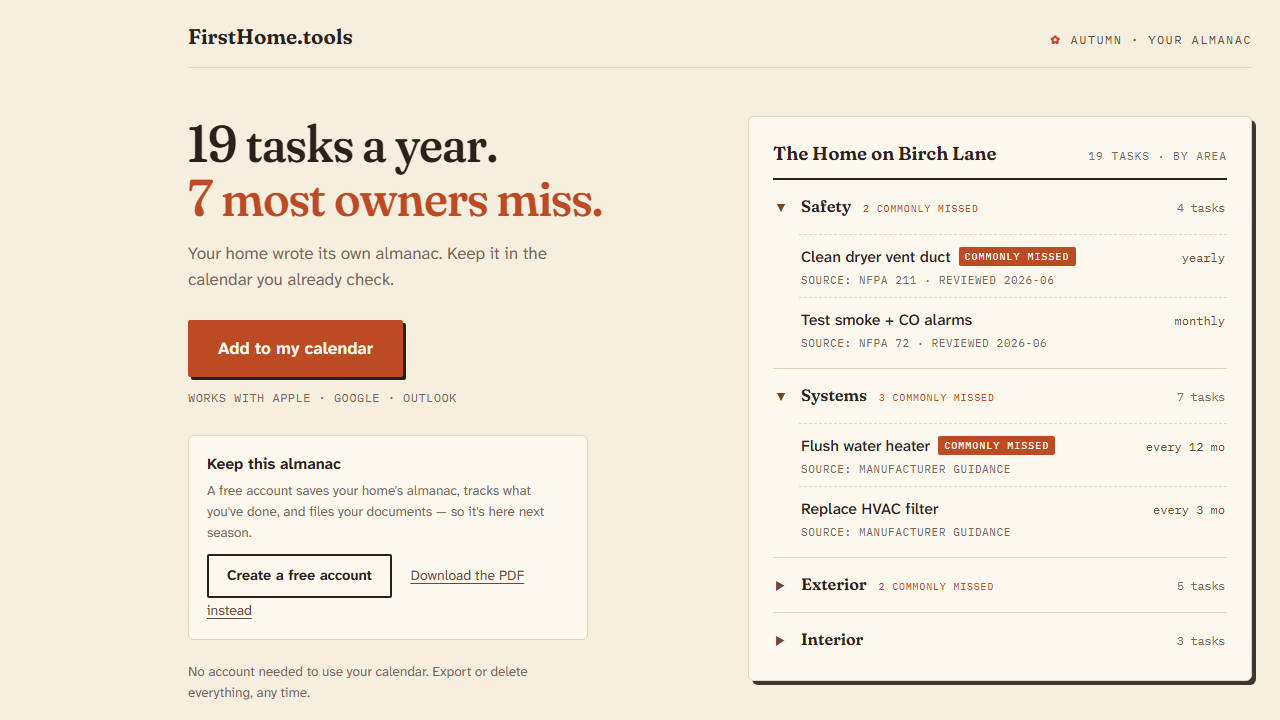
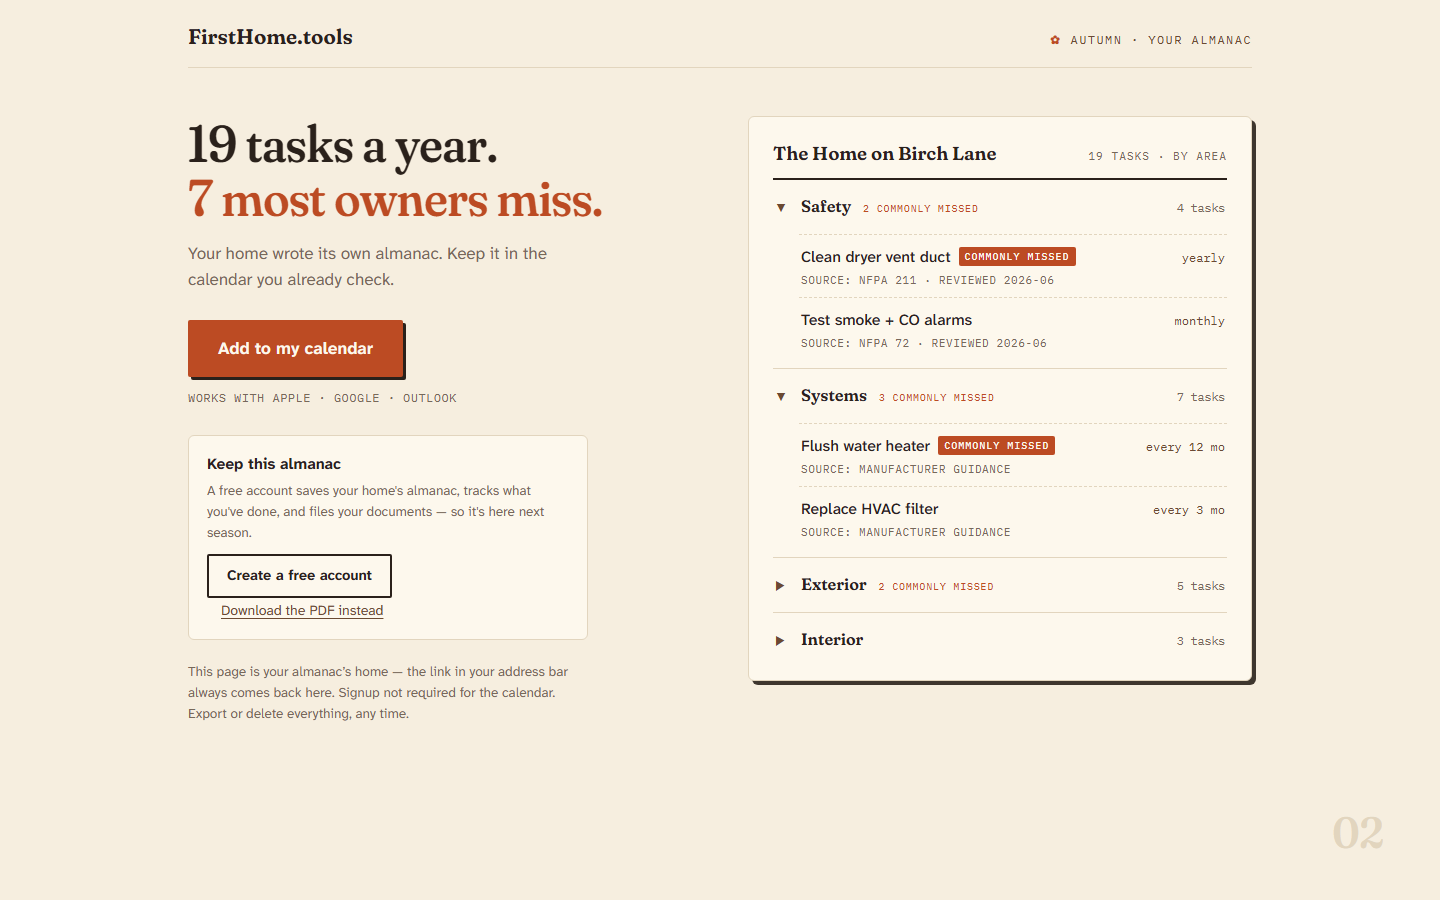
WIP: apply round-2 board feedback to design variants, add task page (T2)
[gstack-context]
Decisions: A2 copy fixed (Signup not required, no Free, TurboTax section progress, no fixed question count); A3 permalink line + link wrap fix; C2 re-shot full page; new T2 calendar-event task page rendered per round-2 request; mockup table updated
Skill: /design-consultation follow-up
[/gstack-context]

diff --git a/docs/ai/plans/assets/design-system-20260731/variant-T2.html b/docs/ai/plans/assets/design-system-20260731/variant-T2.html
@@ -1,0 +1,90 @@
+<!doctype html>
+<html>
+<head>
+<meta charset="utf-8">
+<title>Hearth Almanac — T2: Task page (from calendar event)</title>
+<link rel="preconnect" href="https://fonts.googleapis.com">
+<link href="https://fonts.googleapis.com/css2?family=Fraunces:opsz,wght,SOFT,WONK@9..144,300..900,0..100,0..1&family=Atkinson+Hyperlegible+Next:wght@400;500;700&family=Atkinson+Hyperlegible:wght@400;700&family=IBM+Plex+Mono:wght@400;500&display=swap" rel="stylesheet">
+<style>
+  :root{
+    --paper:#F6EEDF; --page:#FDF8ED; --ink:#2A211B; --ink-faded:#77685A;
+    --ember:#BC4B23; --cocoa:#6B4A32; --pine:#3D5C46; --winter:#4A6B8A; --hairline:#E2D5BE;
+  }
+  *{margin:0;padding:0;box-sizing:border-box}
+  body{background:var(--paper); color:var(--ink); font-family:"Atkinson Hyperlegible Next","Atkinson Hyperlegible",sans-serif; font-size:16px; line-height:1.55; width:1440px; min-height:900px;}
+  .shell{max-width:720px; margin:0 auto; padding:0 48px;}
+  header{display:flex; justify-content:space-between; align-items:baseline; padding:20px 0 14px; border-bottom:1px solid var(--hairline);}
+  .wordmark{font-family:Fraunces,serif; font-variation-settings:"opsz" 40,"SOFT" 80,"WONK" 1; font-weight:640; font-size:21px;}
+  .crumb{font-family:"IBM Plex Mono",monospace; font-size:12px; letter-spacing:.12em; text-transform:uppercase; color:var(--winter);}
+  .nav-line{display:flex; justify-content:space-between; padding:12px 0 0; font-size:14px;}
+  .nav-line a{color:var(--cocoa); text-decoration:underline; text-underline-offset:3px;}
+  .nav-line .pos{font-family:"IBM Plex Mono",monospace; font-size:11.5px; color:var(--ink-faded); letter-spacing:.08em;}
+  .task-head{padding:34px 0 6px;}
+  h1{font-family:Fraunces,serif; font-variation-settings:"opsz" 144,"SOFT" 90,"WONK" 1; font-weight:530; font-size:40px; line-height:1.06; margin-bottom:10px;}
+  .due-line{font-family:"IBM Plex Mono",monospace; font-size:12.5px; letter-spacing:.06em; color:var(--ember); font-weight:700; margin-bottom:22px;}
+  .due-line .int{color:var(--cocoa); font-weight:400;}
+  .why{background:var(--page); border:1px solid var(--hairline); border-radius:6px; box-shadow:3px 3px 0 rgba(42,33,27,.85); padding:18px 20px; margin-bottom:24px;}
+  .why p{font-size:15.5px; margin-bottom:8px;}
+  .src{font-family:"IBM Plex Mono",monospace; font-size:10.5px; letter-spacing:.09em; text-transform:uppercase; color:var(--ink-faded);}
+  .cta{display:inline-block; background:var(--ember); color:var(--page); font-weight:700; font-size:17px; padding:15px 34px; border-radius:2px; text-decoration:none; box-shadow:3px 3px 0 var(--ink);}
+  .form{margin:22px 0 8px;}
+  label.fld{display:block; font-family:"IBM Plex Mono",monospace; font-size:11px; letter-spacing:.1em; text-transform:uppercase; color:var(--ink-faded); margin:14px 0 6px;}
+  textarea{width:100%; border:1px solid var(--cocoa); border-radius:2px; background:var(--page); padding:10px; font-size:15px; font-family:inherit; min-height:64px;}
+  .who{display:flex; gap:22px; font-size:15px; align-items:center;}
+  .who .ring{width:16px; height:16px; border:2px solid var(--cocoa); border-radius:50%; display:inline-block; vertical-align:-2px; margin-right:7px;}
+  .who .ring.sel{border-color:var(--ink); box-shadow:inset 0 0 0 3.5px var(--page), inset 0 0 0 10px var(--ink);}
+  .quiet-row{display:flex; gap:24px; margin:26px 0 30px;}
+  .ghost{display:inline-block; border:1.5px solid var(--cocoa); color:var(--cocoa); font-weight:600; font-size:14.5px; padding:9px 18px; border-radius:2px; text-decoration:none;}
+  .history{border-top:2px solid var(--ink); margin-top:8px;}
+  .hist-cap{display:flex; justify-content:space-between; font-family:"IBM Plex Mono",monospace; font-size:11px; letter-spacing:.12em; text-transform:uppercase; color:var(--ink-faded); padding:10px 0 2px;}
+  .row{display:flex; justify-content:space-between; padding:10px 0; border-bottom:1px solid var(--hairline); font-size:14.5px;}
+  .row .d{font-family:"IBM Plex Mono",monospace; font-size:11.5px; color:var(--ink-faded);}
+  .row .note{color:var(--ink-faded); font-size:13.5px;}
+  .colophon{margin-top:26px; padding:16px 0 50px; font-family:"IBM Plex Mono",monospace; font-size:11px; letter-spacing:.08em; color:var(--ink-faded); border-top:1px solid var(--hairline);}
+</style>
+</head>
+<body>
+<div class="shell">
+  <header>
+    <div class="wordmark">FirstHome.tools</div>
+    <div class="crumb">Winter · The Home on Birch Lane</div>
+  </header>
+  <div class="nav-line">
+    <a href="#">← See the full almanac</a>
+    <span class="pos">TASK 7 OF 19 · WATER HEATER</span>
+  </div>
+
+  <div class="task-head">
+    <h1>Flush the water heater</h1>
+    <div class="due-line">DUE THIS WEEK <span class="int">· every 12 months · last done: never</span></div>
+  </div>
+
+  <div class="why">
+    <p>Sediment builds up at the bottom of the tank, shortens its life, and can cause overheating. Draining a few gallons once a year clears it.</p>
+    <span class="src">Source: manufacturer guidance · reviewed 2026-06</span>
+  </div>
+
+  <a class="cta" href="#">✓ Mark done</a>
+
+  <div class="form">
+    <label class="fld">Note · optional</label>
+    <textarea placeholder=""></textarea>
+    <label class="fld">Who did it</label>
+    <div class="who"><span><span class="ring sel"></span>Me</span><span><span class="ring"></span>A pro</span></div>
+  </div>
+
+  <div class="quiet-row">
+    <a class="ghost" href="#">Snooze 2 weeks</a>
+    <a class="ghost" href="#">This doesn't apply to my home</a>
+  </div>
+
+  <div class="history">
+    <div class="hist-cap"><span>Service log · water heater</span><span>REC 007</span></div>
+    <div class="row"><span>Pressure valve checked <span class="note">— by you</span></span><span class="d">JAN 04 2027</span></div>
+    <div class="row"><span>Installed <span class="note">— Hendricks Plumbing</span></span><span class="d">MAY 2019</span></div>
+  </div>
+
+  <div class="colophon">MARKED WORK IS LOGGED TO THIS HOME'S ALMANAC · YOUR CALENDAR CATCHES UP WITHIN A DAY</div>
+</div>
+</body>
+</html>

diff --git a/docs/ai/plans/assets/design-system-20260731/variant-A2.html b/docs/ai/plans/assets/design-system-20260731/variant-A2.html
@@ -42,14 +42,14 @@
 <div class="shell">
   <header>
     <div class="wordmark">FirstHome.tools</div>
-    <div class="crumb"><span class="leaf">&#10047;</span> Autumn · No signup · Free</div>
+    <div class="crumb"><span class="leaf">&#10047;</span> Autumn · Signup not required</div>
   </header>
 
   <div class="masthead">
     <div>
       <h1>Your home has an almanac.<br><span class="known">Most of it you've never read.</span></h1>
-      <p class="dek">Answer six questions. We'll uncover the maintenance your home actually needs — sourced, scheduled, and delivered to the calendar you already check.</p>
-      <div class="promise"><span>3 minutes</span><span>No account</span><span>Every task cites its source</span></div>
+      <p class="dek">A short interview about your home. Each answer can uncover more — sourced, scheduled, and delivered to the calendar you already check.</p>
+      <div class="promise"><span>A few minutes</span><span>Signup not required</span><span>Every task cites its source</span></div>
       <!-- linocut cottage -->
       <svg class="cottage" width="230" height="130" viewBox="0 0 200 120" fill="none" stroke="#6B4A32" stroke-width="2.5" stroke-linecap="round">
         <path d="M40 70 L100 30 L160 70"/>
@@ -66,7 +66,7 @@
 
     <div>
       <div class="sheet">
-        <div class="q-cap"><span>Begin the almanac</span><span>1 of 6</span></div>
+        <div class="q-cap"><span>Begin the almanac</span><span>Section 1 · The basics</span></div>
         <div class="q">What kind of home is it?</div>
         <div class="opt"><span class="ring"></span> House, detached</div>
         <div class="opt"><span class="ring"></span> Townhome <small>shared walls, own roof</small></div>

diff --git a/docs/ai/plans/assets/design-system-20260731/variant-A3.html b/docs/ai/plans/assets/design-system-20260731/variant-A3.html
@@ -27,7 +27,7 @@
   .keep b{font-size:15.5px;}
   .keep p{font-size:13.5px; color:var(--ink-faded); margin:4px 0 10px;}
   .btn2{display:inline-block; border:2px solid var(--ink); color:var(--ink); font-weight:700; font-size:14.5px; padding:9px 18px; border-radius:2px; text-decoration:none;}
-  .quiet-link{color:var(--cocoa); font-size:14px; text-decoration:underline; text-underline-offset:3px; margin-left:14px;}
+  .quiet-link{color:var(--cocoa); font-size:14px; text-decoration:underline; text-underline-offset:3px; margin-left:14px; white-space:nowrap;}
   /* accordion sheet */
   .sheet{background:var(--page); border:1px solid var(--hairline); border-radius:6px; box-shadow:4px 4px 0 rgba(42,33,27,.9); padding:8px 24px 14px;}
   .sheet-head{display:flex; justify-content:space-between; align-items:baseline; border-bottom:2px solid var(--ink); padding:14px 0 10px;}
@@ -71,7 +71,7 @@
         <a class="btn2" href="#">Create a free account</a>
         <a class="quiet-link" href="#">Download the PDF instead</a>
       </div>
-      <p class="trust">No account needed to use your calendar. Export or delete everything, any time.</p>
+      <p class="trust">This page is your almanac’s home — the link in your address bar always comes back here. Signup not required for the calendar. Export or delete everything, any time.</p>
     </div>
 
     <div>

diff --git a/docs/ai/plans/zacgo-main-design-20260727-085637.md b/docs/ai/plans/zacgo-main-design-20260727-085637.md
@@ -394,6 +394,7 @@ shorthand. Neither is a design instruction. Binding for implementation:
 | Landing + Q1, aesthetic (A2) | `docs/ai/plans/assets/design-system-20260731/variant-A2.png` | Hearth Almanac applied | Board-approved round 2; HTML alongside is the token-accurate reference |
 | Result page, aesthetic (A3) | `docs/ai/plans/assets/design-system-20260731/variant-A3.png` | Hearth Almanac applied | "Perfect end of wizard" (board round 2); by-area accordion, account block |
 | Platform "This month" (C2) | `docs/ai/plans/assets/design-system-20260731/variant-C2.png` | Hearth Almanac applied | Binder rail, month/area toggle, service log, Mail Slot (future) |
+| Task page from calendar event (T2) | `docs/ai/plans/assets/design-system-20260731/variant-T2.png` | Hearth Almanac applied | Board round 2 request: separate linkable task page — why + source, mark done, note, snooze, per-asset service log, calendar-lag line |
 
 ## Open Questions
 
